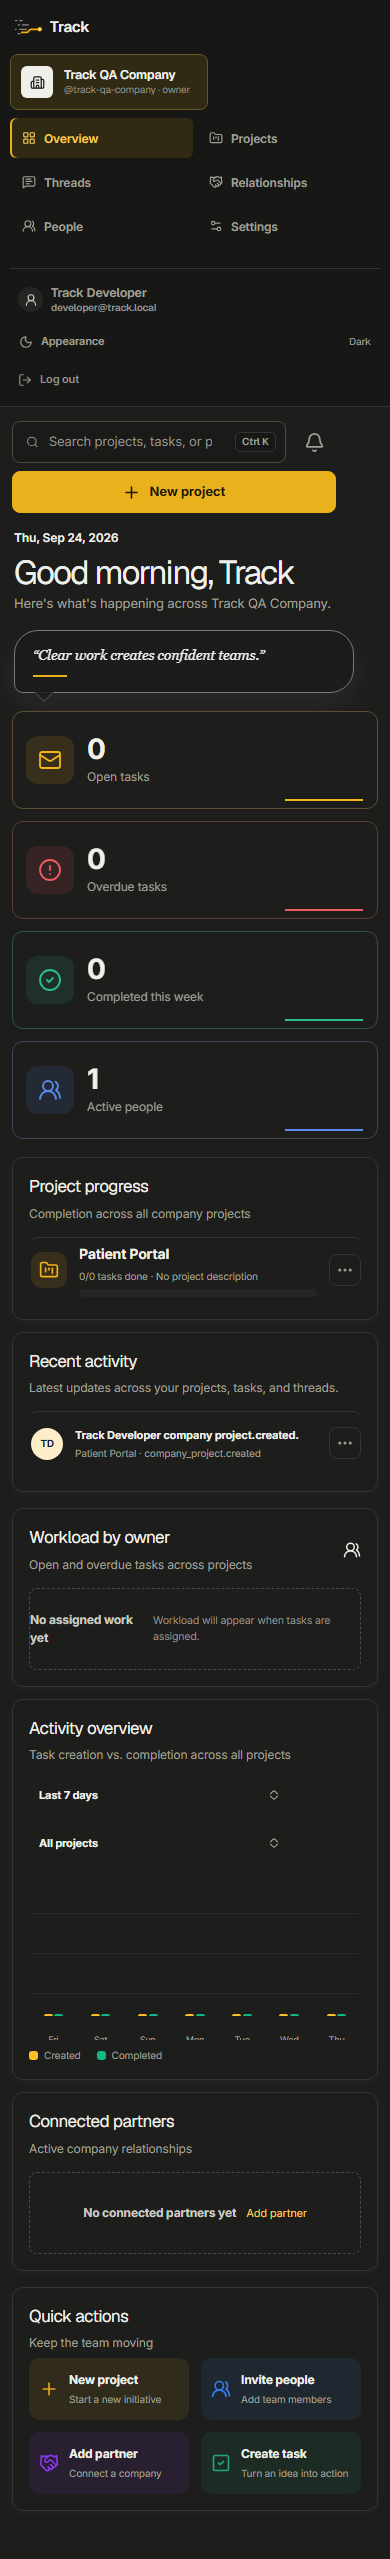
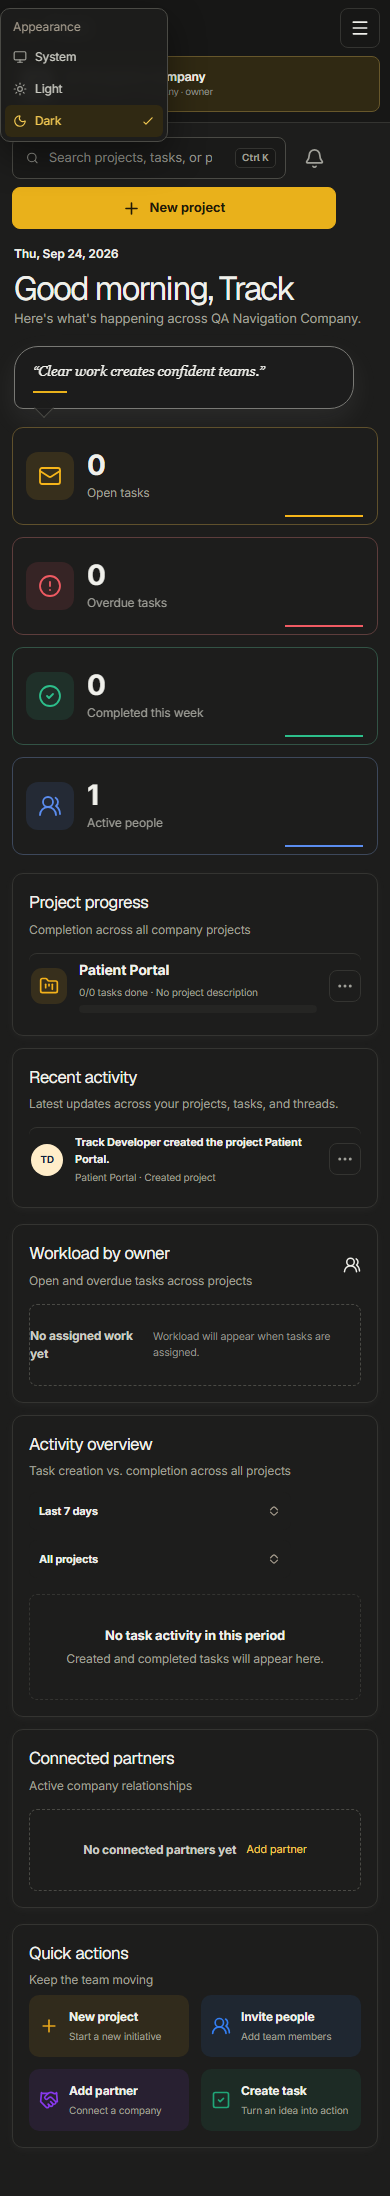
fix(web): clarify company activity and compact overview states

diff --git a/apps/web/src/features/company/CompanyOverviewDashboard.tsx b/apps/web/src/features/company/CompanyOverviewDashboard.tsx
@@ -106,6 +106,7 @@ export function CompanyOverviewDashboard({ activeCompanyId, companyName, createP
   const shouldUseInitialOverview = rangeDays === 7 && chartProjectId === ''
   const rangedOverview = useQuery(api.companyOverview.get, shouldUseInitialOverview ? 'skip' : { companyId: activeCompanyId, days: rangeDays, projectId: chartProjectId || undefined })
   const trend = (shouldUseInitialOverview ? overview?.activityTrend : rangedOverview?.activityTrend) ?? []
+  const hasTaskActivity = trend.some((point) => point.created > 0 || point.completed > 0)
   const maxTrend = Math.max(1, ...trend.flatMap((point) => [point.created, point.completed]))
   const workload = overview?.workload ?? []
   const maxWorkload = Math.max(1, ...workload.map((owner) => owner.open))
@@ -165,7 +166,66 @@ export function CompanyOverviewDashboard({ activeCompanyId, companyName, createP
     <div className="company-dashboard-bottom-grid company-dashboard-bottom-grid-live">
       <section aria-label="Workload by owner" className="company-dashboard-panel company-dashboard-workload-panel"><div className="company-dashboard-panel-heading"><div><h2>Workload by owner</h2><p>Open and overdue tasks across projects</p></div><UsersRound aria-hidden="true" size={18} /></div>{!overview ? <div aria-label="Loading workload" className="company-dashboard-skeleton" role="status" /> : workload.length === 0 ? <div className="company-quiet-empty"><strong>No assigned work yet</strong><span>Workload will appear when tasks are assigned.</span></div> : <ol className="company-dashboard-workload-list">{workload.map((owner) => <li key={owner.id}><span aria-hidden="true" className="company-dashboard-workload-avatar">{owner.initials}</span><div className="company-dashboard-workload-copy"><strong>{owner.name}</strong><span>{owner.open} open · {owner.completed} completed</span><div aria-hidden="true" className="company-dashboard-workload-track"><i style={{ width: `${(owner.open / maxWorkload) * 100}%` }} /></div></div><span className="company-dashboard-workload-meta"><strong>{owner.open}</strong><small>{owner.overdue ? `${owner.overdue} overdue` : 'On track'}</small></span></li>)}</ol>}</section>
 
-      <section className="company-dashboard-panel company-dashboard-chart-panel"><div className="company-dashboard-panel-heading"><div><h2>Activity overview</h2><p>Task creation vs. completion across all projects</p></div><div className="company-dashboard-chart-filters"><NativeSelect aria-label="Activity range" id="overview-range" onChange={(event) => setRangeDays(Number(event.target.value) as 7 | 30 | 90)} value={String(rangeDays)}><NativeSelectOption value="7">Last 7 days</NativeSelectOption><NativeSelectOption value="30">Last 30 days</NativeSelectOption><NativeSelectOption value="90">Last 90 days</NativeSelectOption></NativeSelect><NativeSelect aria-label="Activity project" id="overview-project" onChange={(event) => setChartProjectId(event.target.value as Id<'projects'> | '')} value={chartProjectId}><NativeSelectOption value="">All projects</NativeSelectOption>{uniqueProjects.map((project) => <NativeSelectOption key={project.project._id} value={project.project._id}>{project.project.name}</NativeSelectOption>)}</NativeSelect></div></div><div className="company-dashboard-chart-scroll" ref={chartScrollRef}><div aria-label={`Task creation and completion by day${hoveredChartDate ? `; ${chartDateLabel(hoveredChartDate)} selected` : ''}`} className="company-dashboard-chart" data-range={rangeDays} onBlur={() => setHoveredChartDate(null)} onFocus={() => { keyboardChartNavigation.current = true; setHoveredChartDate((current) => current ?? trend.at(-1)?.date ?? null) }} onKeyDown={(event) => { if (event.key !== 'ArrowLeft' && event.key !== 'ArrowRight') return; event.preventDefault(); keyboardChartNavigation.current = true; const currentIndex = Math.max(0, trend.findIndex((point) => point.date === hoveredChartDate)); const nextIndex = Math.min(trend.length - 1, Math.max(0, currentIndex + (event.key === 'ArrowRight' ? 1 : -1))); setHoveredChartDate(trend[nextIndex]?.date ?? null) }} role="group" style={{ gridTemplateColumns: `repeat(${Math.max(trend.length, 1)}, minmax(0, 1fr))` }} tabIndex={0}><div className="company-dashboard-chart-grid" />{trend.map((point) => <div className="company-dashboard-chart-day" data-chart-date={point.date} key={point.date} onMouseEnter={() => { keyboardChartNavigation.current = false; setHoveredChartDate(point.date) }} onMouseLeave={() => setHoveredChartDate(null)}><div className="company-dashboard-bars"><i className="created" style={{ height: `${(point.created / maxTrend) * 100}%` }} /><i className="completed" style={{ height: `${(point.completed / maxTrend) * 100}%` }} /></div><span>{dayLabel(point.date)}</span>{hoveredChartDate === point.date ? <div className="company-dashboard-chart-tooltip" role="status"><strong>{chartDateLabel(point.date)}</strong><span><i className="created" />Created <b>{point.created}</b></span><span><i className="completed" />Completed <b>{point.completed}</b></span></div> : null}</div>)}</div></div><div className="company-dashboard-chart-legend"><span><i className="created" />Created</span><span><i className="completed" />Completed</span></div></section>
+      <section className="company-dashboard-panel company-dashboard-chart-panel">
+        <div className="company-dashboard-panel-heading">
+          <div><h2>Activity overview</h2><p>Task creation vs. completion across all projects</p></div>
+          <div className="company-dashboard-chart-filters">
+            <NativeSelect aria-label="Activity range" id="overview-range" onChange={(event) => setRangeDays(Number(event.target.value) as 7 | 30 | 90)} value={String(rangeDays)}>
+              <NativeSelectOption value="7">Last 7 days</NativeSelectOption>
+              <NativeSelectOption value="30">Last 30 days</NativeSelectOption>
+              <NativeSelectOption value="90">Last 90 days</NativeSelectOption>
+            </NativeSelect>
+            <NativeSelect aria-label="Activity project" id="overview-project" onChange={(event) => setChartProjectId(event.target.value as Id<'projects'> | '')} value={chartProjectId}>
+              <NativeSelectOption value="">All projects</NativeSelectOption>
+              {uniqueProjects.map((project) => <NativeSelectOption key={project.project._id} value={project.project._id}>{project.project.name}</NativeSelectOption>)}
+            </NativeSelect>
+          </div>
+        </div>
+        {!overview || (!shouldUseInitialOverview && !rangedOverview) ? (
+          <div aria-label="Loading activity overview" className="company-dashboard-skeleton" role="status" />
+        ) : !hasTaskActivity ? (
+          <div className="company-dashboard-chart-empty" role="status">
+            <strong>No task activity in this period</strong>
+            <span>Created and completed tasks will appear here.</span>
+          </div>
+        ) : (
+          <>
+            <div className="company-dashboard-chart-scroll" ref={chartScrollRef}>
+              <div
+                aria-label={`Task creation and completion by day${hoveredChartDate ? `; ${chartDateLabel(hoveredChartDate)} selected` : ''}`}
+                className="company-dashboard-chart"
+                data-range={rangeDays}
+                onBlur={() => setHoveredChartDate(null)}
+                onFocus={() => { keyboardChartNavigation.current = true; setHoveredChartDate((current) => current ?? trend.at(-1)?.date ?? null) }}
+                onKeyDown={(event) => {
+                  if (event.key !== 'ArrowLeft' && event.key !== 'ArrowRight') return
+                  event.preventDefault()
+                  keyboardChartNavigation.current = true
+                  const currentIndex = Math.max(0, trend.findIndex((point) => point.date === hoveredChartDate))
+                  const nextIndex = Math.min(trend.length - 1, Math.max(0, currentIndex + (event.key === 'ArrowRight' ? 1 : -1)))
+                  setHoveredChartDate(trend[nextIndex]?.date ?? null)
+                }}
+                role="group"
+                style={{ gridTemplateColumns: `repeat(${Math.max(trend.length, 1)}, minmax(0, 1fr))` }}
+                tabIndex={0}
+              >
+                <div className="company-dashboard-chart-grid" />
+                {trend.map((point) => (
+                  <div className="company-dashboard-chart-day" data-chart-date={point.date} key={point.date} onMouseEnter={() => { keyboardChartNavigation.current = false; setHoveredChartDate(point.date) }} onMouseLeave={() => setHoveredChartDate(null)}>
+                    <div className="company-dashboard-bars">
+                      <i className="created" style={{ height: `${(point.created / maxTrend) * 100}%` }} />
+                      <i className="completed" style={{ height: `${(point.completed / maxTrend) * 100}%` }} />
+                    </div>
+                    <span>{dayLabel(point.date)}</span>
+                    {hoveredChartDate === point.date ? <div className="company-dashboard-chart-tooltip" role="status"><strong>{chartDateLabel(point.date)}</strong><span><i className="created" />Created <b>{point.created}</b></span><span><i className="completed" />Completed <b>{point.completed}</b></span></div> : null}
+                  </div>
+                ))}
+              </div>
+            </div>
+            <div className="company-dashboard-chart-legend"><span><i className="created" />Created</span><span><i className="completed" />Completed</span></div>
+          </>
+        )}
+      </section>
 
       <div className="company-dashboard-utility-column"><section className="company-dashboard-panel company-dashboard-partners"><div className="company-dashboard-panel-heading"><div><h2>Connected partners</h2><p>Active company relationships</p></div></div>{overview?.partners.length ? <ul>{overview.partners.map((partner) => <li key={partner.id}><span className="company-dashboard-partner-avatar">{partner.initials}</span><span><strong>{partner.name}</strong><small>{partner.relationshipName}</small></span><em>{partner.status}</em></li>)}</ul> : <div className="company-quiet-empty"><strong>No connected partners yet</strong>{isAdmin ? <button onClick={() => openQuickAction('partner')} type="button">Add partner</button> : null}</div>}</section>{isAdmin ? <section className="company-dashboard-panel company-dashboard-actions"><div className="company-dashboard-panel-heading"><div><h2>Quick actions</h2><p>Keep the team moving</p></div></div><div className="company-dashboard-action-grid"><button onClick={() => openQuickAction('project')} type="button"><Plus aria-hidden="true" size={20} /><span><strong>New project</strong><small>Start a new initiative</small></span></button><button onClick={() => openQuickAction('invite')} type="button"><UsersRound aria-hidden="true" size={20} /><span><strong>Invite people</strong><small>Add team members</small></span></button><button onClick={() => openQuickAction('partner')} type="button"><Handshake aria-hidden="true" size={20} /><span><strong>Add partner</strong><small>Connect a company</small></span></button>{onCreateTaskRequest ? <button onClick={() => openQuickAction('task')} type="button"><CheckSquare2 aria-hidden="true" size={20} /><span><strong>Create task</strong><small>Turn an idea into action</small></span></button> : null}</div></section> : null}</div>
     </div>

diff --git a/apps/web/src/features/company/CompanyProjectNavigation.tsx b/apps/web/src/features/company/CompanyProjectNavigation.tsx
@@ -10,7 +10,9 @@ import {
   ListTodo,
   MessagesSquare,
   LogOut,
+  Menu,
   UserRound,
+  X,
 } from "lucide-react";
 import { useEffect, useLayoutEffect, useRef, useState, type ReactNode } from "react";
 
@@ -124,6 +126,7 @@ export function CompanyProjectNavigation({
   const [width, setWidth] = useState(SIDEBAR_DEFAULT_WIDTH);
   const [preferencesLoaded, setPreferencesLoaded] = useState(false);
   const [resizing, setResizing] = useState(false);
+  const [mobileMenuOpen, setMobileMenuOpen] = useState(false);
   const navigationRef = useRef<HTMLElement>(null);
   const session = authClient.useSession();
   const companies = useQuery(api.companies.listMine, {});
@@ -196,6 +199,15 @@ export function CompanyProjectNavigation({
     if (activeArea === "company") setCollapsed(false);
   }, [activeArea]);
 
+  useEffect(() => {
+    if (!mobileMenuOpen) return;
+    const closeOnEscape = (event: KeyboardEvent) => {
+      if (event.key === "Escape") setMobileMenuOpen(false);
+    };
+    window.addEventListener("keydown", closeOnEscape);
+    return () => window.removeEventListener("keydown", closeOnEscape);
+  }, [mobileMenuOpen]);
+
   const renderedWidth = collapsed ? SIDEBAR_COLLAPSED_WIDTH : width;
 
   useLayoutEffect(() => {
@@ -243,6 +255,7 @@ export function CompanyProjectNavigation({
     <aside
       aria-label="Company and Project navigation"
       className={navClassName}
+      data-mobile-open={mobileMenuOpen}
       ref={navigationRef}
     >
       <div
@@ -303,6 +316,18 @@ export function CompanyProjectNavigation({
           <img alt="" height={22} src="/track-mark.svg" width={28} />
           <span>Track</span>
         </Link>
+        {activeArea === "company" && companyNavigation ? (
+          <button
+            aria-controls="company-mobile-navigation"
+            aria-expanded={mobileMenuOpen}
+            aria-label={mobileMenuOpen ? "Close Company navigation" : "Open Company navigation"}
+            className="company-project-nav-mobile-toggle"
+            onClick={() => setMobileMenuOpen((open) => !open)}
+            type="button"
+          >
+            {mobileMenuOpen ? <X aria-hidden="true" size={20} /> : <Menu aria-hidden="true" size={20} />}
+          </button>
+        ) : null}
       </header>
 
       <Link
@@ -361,7 +386,9 @@ export function CompanyProjectNavigation({
       ) : null}
 
       {companyNavigation ? (
-        <div className="company-project-nav-custom">{companyNavigation}</div>
+        <div className="company-project-nav-custom" id="company-mobile-navigation" onClickCapture={(event) => {
+          if (event.target instanceof Element && event.target.closest('a[href]')) setMobileMenuOpen(false);
+        }}>{companyNavigation}</div>
       ) : null}
 
       {activeProject && !activeProjectItem && projects !== undefined ? (

diff --git a/apps/web/src/features/company/company-overview-reference.css b/apps/web/src/features/company/company-overview-reference.css
@@ -1906,6 +1906,36 @@
   align-content: start;
 }
 
+.company-reference-shell .company-overview-live .company-dashboard-workload-panel:has(.company-quiet-empty) {
+  align-self: start;
+  min-height: 0;
+}
+
+.company-reference-shell .company-overview-live .company-dashboard-chart-panel:has(.company-dashboard-chart-empty) {
+  align-self: start;
+  height: auto;
+  min-height: 0;
+}
+
+.company-dashboard-chart-empty {
+  display: grid;
+  min-height: 106px;
+  align-content: center;
+  justify-items: center;
+  gap: 5px;
+  margin-top: 16px;
+  border: 1px dashed var(--company-ref-border);
+  border-radius: 8px;
+  color: var(--company-ref-muted);
+  text-align: center;
+  font-size: 12px;
+}
+
+.company-dashboard-chart-empty strong {
+  color: var(--company-ref-text);
+  font-size: 13px;
+}
+
 .company-reference-shell .company-overview-live .company-dashboard-workload-panel > .company-dashboard-panel-heading {
   margin-bottom: 4px;
 }
@@ -2015,5 +2045,49 @@
     margin-top: 12px;
     border-top: 1px solid var(--hairline);
     padding-top: 10px;
+  }
+}
+
+.company-project-nav-mobile-toggle {
+  display: none;
+}
+
+@media (max-width: 860px) {
+  .company-reference-shell .company-project-nav-mobile-toggle {
+    display: inline-flex;
+    width: 40px;
+    height: 40px;
+    align-items: center;
+    justify-content: center;
+    margin-left: auto;
+    border: 1px solid var(--hairline);
+    border-radius: 8px;
+    background: transparent;
+    color: var(--ink);
+  }
+
+  .company-reference-shell .company-project-nav-company,
+  .company-reference-shell .company-project-nav.is-collapsed .company-project-nav-company {
+    grid-column: 1 / -1;
+    width: 100%;
+  }
+
+  .company-reference-shell .company-project-nav[data-mobile-open='false'] .company-project-nav-custom,
+  .company-reference-shell .company-project-nav[data-mobile-open='false'] .company-project-nav-switcher,
+  .company-reference-shell .company-project-nav[data-mobile-open='false'] .company-project-nav-profile {
+    display: none;
+  }
+
+  .company-reference-shell .company-project-nav[data-mobile-open='true'] .company-project-nav-custom nav {
+    display: grid;
+    grid-template-columns: repeat(2, minmax(0, 1fr));
+    gap: 4px 8px;
+    overflow: visible;
+  }
+
+  .company-reference-shell .company-project-nav[data-mobile-open='true'] .company-project-nav-custom nav > a,
+  .company-reference-shell .company-project-nav[data-mobile-open='true'] .company-project-nav-custom nav > button {
+    min-width: 0;
+    width: 100%;
   }
 }

diff --git a/convex/companyOverview.ts b/convex/companyOverview.ts
@@ -8,6 +8,7 @@ import { requireActiveCompanyMembership } from './lib/companyPolicy'
 import { createTaskRequestScope } from './lib/taskPolicy'
 import { requireTaskAccess } from './lib/taskPolicy'
 import { deriveProjectTaskMetrics, isCompletedWorkflowState } from './lib/projectOverviewMetrics'
+import { describeCompanyAuditActivity } from './lib/companyActivityCopy'
 
 const dashboardQuotes = [
   'Better systems build brighter tomorrows.',
@@ -569,8 +570,9 @@ export const get = query({
       for (const audit of row.audits) {
         const actor = audit.actorId ? userById.get(String(audit.actorId)) : null
         const actorName = actor?.displayName ?? 'A teammate'
-        const channelActivity = Boolean(audit.groupId)
-        feed.push({ id: String(audit._id), projectId: row.project._id, projectName: row.project.name, actorName, actorInitials: initials(actorName), action: audit.action, title: row.project.name, preview: `${actorName} ${actionLabel(audit.action)}.`, createdAt: audit.createdAt, kind: channelActivity ? 'message' : 'project', groupId: audit.groupId, threadId: audit.channelThreadId })
+        const description = describeCompanyAuditActivity(audit.action, actorName, row.project.name)
+        if (!description) continue
+        feed.push({ id: String(audit._id), projectId: row.project._id, projectName: row.project.name, actorName, actorInitials: initials(actorName), action: description.action, title: row.project.name, preview: description.preview, createdAt: audit.createdAt, kind: 'project' })
       }
     }
     feed.sort((left, right) => right.createdAt - left.createdAt)

diff --git a/convex/lib/companyActivityCopy.ts b/convex/lib/companyActivityCopy.ts
@@ -1,0 +1,18 @@
+const auditActions = {
+  'company_project.created': { action: 'Created project', verb: 'created the project' },
+  'project.created': { action: 'Created project', verb: 'created the project' },
+  'project.updated': { action: 'Updated project', verb: 'updated the project' },
+  'shared_project.proposed': { action: 'Proposed project', verb: 'proposed the shared project' },
+  'project_ownership.assigned': { action: 'Assigned ownership', verb: 'assigned ownership of' },
+  'project_ownership.requested': { action: 'Requested ownership', verb: 'requested ownership of' },
+  'project_company.invited': { action: 'Invited company', verb: 'invited a company to' },
+} as const
+
+export function describeCompanyAuditActivity(action: string, actorName: string, projectName: string) {
+  const description = auditActions[action as keyof typeof auditActions]
+  if (!description) return null
+  return {
+    action: description.action,
+    preview: `${actorName} ${description.verb} ${projectName}.`,
+  }
+}

diff --git a/convex/lib/companyActivityCopy.test.ts b/convex/lib/companyActivityCopy.test.ts
@@ -1,0 +1,15 @@
+import { describe, expect, it } from 'vitest'
+import { describeCompanyAuditActivity } from './companyActivityCopy'
+
+describe('Company activity copy', () => {
+  it('shows project creation in plain language', () => {
+    expect(describeCompanyAuditActivity('company_project.created', 'Ava', 'Patient Portal')).toEqual({
+      action: 'Created project',
+      preview: 'Ava created the project Patient Portal.',
+    })
+  })
+
+  it('omits internal events that have no supported Company feed meaning', () => {
+    expect(describeCompanyAuditActivity('memory_tool.read.allowed', 'Ava', 'Patient Portal')).toBeNull()
+  })
+})

diff --git a/docs/review/company-workspace-qa.md b/docs/review/company-workspace-qa.md
@@ -1,6 +1,6 @@
 # Company Workspace review
 
-The screenshots below show the running web app at 1600 × 900 in dark mode, using a disposable local Convex fixture. They are not the supplied design references. The fixture has one company and one new project, so screens with no tasks or relationships show real empty states.
+The screenshots show the running web app in dark mode with a disposable local Convex fixture. Desktop captures use a 1600 × 900 viewport; mobile captures use 390 × 844. They are not the supplied design references. The fixture has one company and one project, so screens without tasks or relationships show real empty states.
 
 | Screen | Screenshot |
 | --- | --- |
@@ -12,7 +12,10 @@ The screenshots below show the running web app at 1600 × 900 in dark mode, usin
 | People | [Open screenshot](assets/company-workspace/people.png) |
 | Settings | [Open screenshot](assets/company-workspace/settings.png) |
 | Mobile Overview, 390 px | [Open screenshot](assets/company-workspace/overview-mobile.png) |
+| Mobile navigation open | [Open screenshot](assets/company-workspace/overview-mobile-navigation.png) |
 
 The local Company Tasks route loaded after the `companyOverview:listTasks` function was deployed to the isolated backend. Every captured route had zero horizontal page overflow, and the browser reported zero console or page errors during this capture. This does not prove that an existing signed-in session against the shared development deployment has recovered.
 
-The visual review still shows work to do. Recent activity exposes the raw `company_project.created` event name, the empty workload and chart cards use more height than their content needs, and the mobile navigation takes a large part of the first screen. The screenshots show the current behavior so the team can review these gaps without treating fixture data as production data.
+Recent activity uses a plain-language description for the supported project audit event. With no assigned tasks, the workload card stays compact; with no task creation or completion, the chart shows an empty-state message. On narrow screens, Company navigation starts compact and opens from a labeled button. The mobile menu closes with Escape. A 320–1600 px viewport sweep found no page overflow.
+
+These checks do not prove every role, failure state, dialog, drawer, or shared-development session. The Company Workspace remains under review until those paths are exercised with representative data and permissions.
